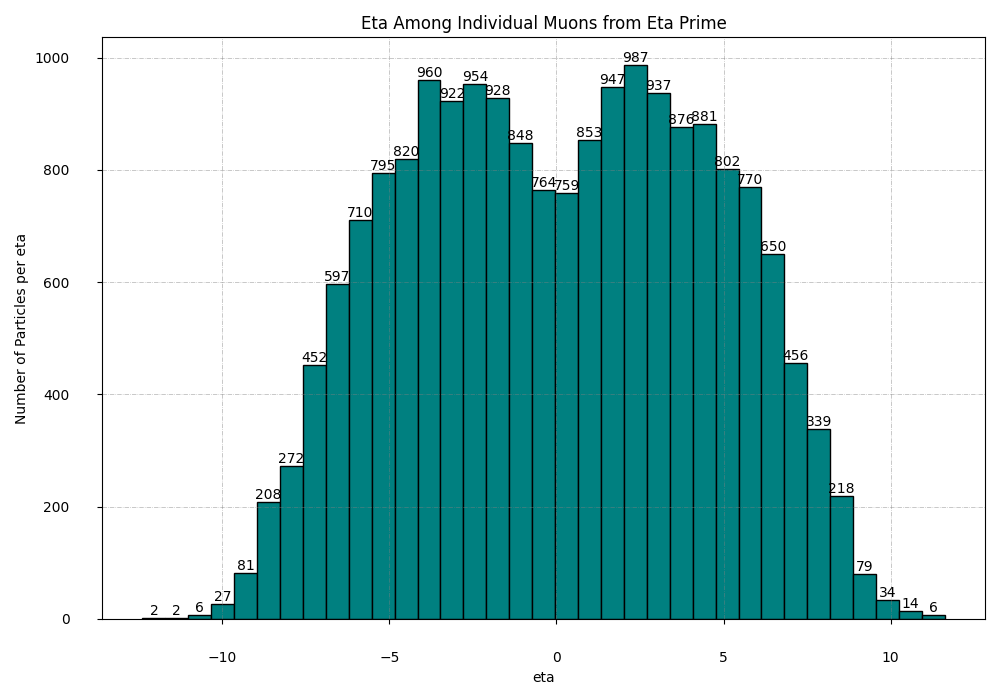
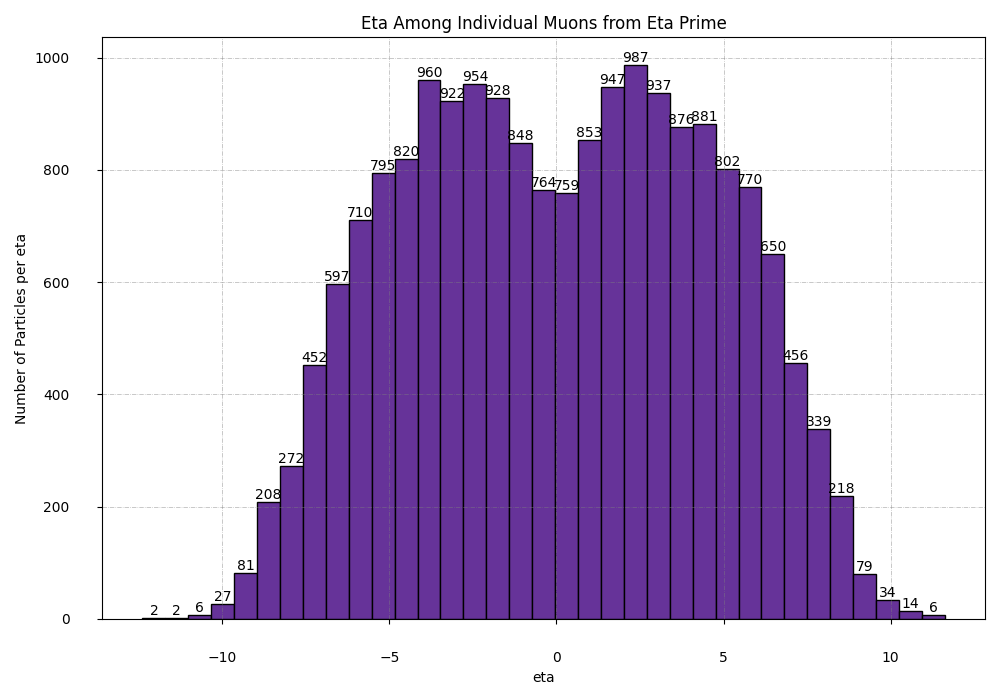
New color plots for Eta Prime muons

diff --git a/GenLevelStudies/pythia/analysis_Eta.py b/GenLevelStudies/pythia/analysis_Eta.py
@@ -200,7 +200,7 @@ fig, axs = plt.subplots(1, 1,
 axs.grid(b = True, color ='grey', 
         linestyle ='-.', linewidth = 0.5, 
         alpha = 0.6)
-counts, edges, bars = plt.hist(prime_muons_pt ,edgecolor='black', color='teal', bins=35, range=[0,1])
+counts, edges, bars = plt.hist(prime_muons_pt ,edgecolor='black', color='rebeccapurple', bins=35, range=[0,1])
 plt.bar_label(bars)
 axs.xaxis.set_tick_params(pad = 20) 
 axs.yaxis.set_tick_params(pad = 20) 
@@ -218,7 +218,7 @@ fig, axs = plt.subplots(1, 1,
 axs.grid(b = True, color ='grey', 
         linestyle ='-.', linewidth = 0.5, 
         alpha = 0.6)
-counts, edges, bars = plt.hist(prime_muons_eta ,edgecolor='black', color='teal', bins=35)
+counts, edges, bars = plt.hist(prime_muons_eta ,edgecolor='black', color='rebeccapurple', bins=35)
 plt.bar_label(bars)
 axs.xaxis.set_tick_params(pad = 20) 
 axs.yaxis.set_tick_params(pad = 20) 
@@ -253,7 +253,7 @@ fig, axs = plt.subplots(1, 1,
 axs.grid(b = True, color ='grey', 
         linestyle ='-.', linewidth = 0.5, 
         alpha = 0.6)
-counts, edges, bars = plt.hist(delta_eta_list ,edgecolor='black', color='teal', bins=35)
+counts, edges, bars = plt.hist(delta_eta_list ,edgecolor='black', color='rebeccapurple', bins=35)
 plt.bar_label(bars)
 axs.xaxis.set_tick_params(pad = 20) 
 axs.yaxis.set_tick_params(pad = 20) 
@@ -279,7 +279,7 @@ fig, axs = plt.subplots(1, 1,
 axs.grid(b = True, color ='grey', 
         linestyle ='-.', linewidth = 0.5, 
         alpha = 0.6)
-counts, edges, bars = plt.hist(delta_eta_acc_list ,edgecolor='black', color='teal', bins=35)
+counts, edges, bars = plt.hist(delta_eta_acc_list ,edgecolor='black', color='rebeccapurple', bins=35)
 plt.bar_label(bars)
 axs.xaxis.set_tick_params(pad = 20) 
 axs.yaxis.set_tick_params(pad = 20) 
